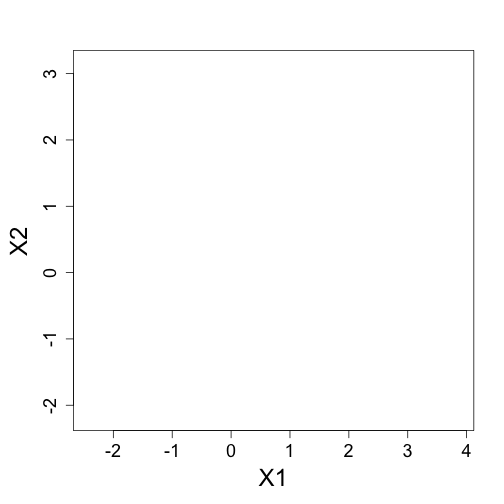
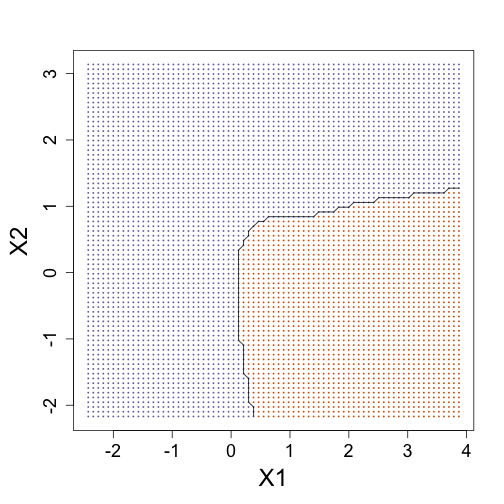
prediction fix and adding geoquery

Changed region(s): [[0.1786, 0.119, 0.9226, 0.8333]]

diff --git a/pages/GEOquery.md b/pages/GEOquery.md
@@ -1,0 +1,123 @@
+---
+layout: page
+title: Downloading data from GEO using GEOquery
+---
+
+
+
+
+## Example of how to download CEL files from GEO
+
+## contributed by Stephanie Hicks
+
+If the `GEOquery` R/Biocondcutor package is not installed, use `biocLite()` to install the package:  
+
+```r
+source("http://bioconductor.org/biocLite.R")
+biocLite("GEOquery")
+```
+
+
+Load the `GEOquery` R/Bioconductor package: 
+
+```r
+library(GEOquery)
+```
+
+
+
+### Access the GEO Series Data
+To access the GEO Sample (GSM), GEO Series (GSE) (lists of GSM files that together form a single experiment) or GEO Dataset (GDS), use the function `getGEO()` which returns a list of ExpressionSets: 
+
+```r
+### This will download a 20 Mb
+gse <- getGEO("GSE21653", GSEMatrix = TRUE)
+show(gse)
+```
+
+
+
+### Accessing raw data from GEO
+If raw data such as .CEL files exist on GEO, you can easily access this dea using the `getGEOSuppFiles()` function.  The function takes in a GEO accession as the argument and will download all the raw data associated with that accession. By default the `getGEOSuppFiles()` function will create a directory within the current working directory to store the raw data.  Here, the file paths of the downloaded files (often with as a .tar extension) are stored in a data frame called `filePaths`. 
+
+
+```r
+filePaths = getGEOSuppFiles("GSE21653")
+filePaths
+```
+
+From here you can use, for example, `ReadAffy()` to read in the CEL files.  
+
+
+### Access GSE Data Tables from GEO
+To access the phenotypic information about the samples, the best way is to use `getGEO()` function to obtain the GSE object and then extract the phenoData object from that.  Unfortunately this means downloadint the entire GSE Matrix file.  
+
+
+```r
+dim(pData(gse[[1]]))
+head(pData(gse[[1]])[, 1:3])
+```
+
+
+Sometimes GSEs are include separate data tables with the sample information. If these exist, you can uuse the `getGSEDataTables()` function. For example here is the phenoData object from a different GSE accession GSE3494 with a Data Table. 
+
+```r
+df1 <- getGSEDataTables("GSE3494")
+lapply(df1, head)
+```
+
+```
+## [[1]]
+##   INDEX (ID) p53 seq mut status (p53+=mutant; p53-=wt)
+## 1    X101B88                                      p53+
+## 2    X102B06                                      p53+
+## 3    X104B91                                      p53+
+## 4    X110B34                                      p53+
+## 5    X111B51                                      p53+
+## 6    X127B00                                      p53+
+##   p53 DLDA classifier result (0=wt-like, 1=mt-like)
+## 1                                                 1
+## 2                                                 1
+## 3                                                 0
+## 4                                                 1
+## 5                                                 1
+## 6                                                 1
+##   DLDA error (1=yes, 0=no) Elston histologic grade ER status PgR status
+## 1                        0                      G3       ER-       PgR-
+## 2                        0                      G3       ER+       PgR+
+## 3                        1                      G3       ER+       PgR+
+## 4                        0                      G2       ER+       PgR+
+## 5                        0                      G3       ER+       PgR+
+## 6                        0                      G3       ER+       PgR+
+##   age at diagnosis tumor size (mm) Lymph node status
+## 1               40              12               LN-
+## 2               51              26               LN-
+## 3               80              24               LN?
+## 4               74              20               LN-
+## 5               41              33               LN-
+## 6               57              22               LN-
+##   DSS TIME (Disease-Specific Survival Time in years)
+## 1                                             11.833
+## 2                                             11.833
+## 3                                              3.583
+## 4                                             11.667
+## 5                                              7.167
+## 6                                              4.667
+##   DSS EVENT (Disease-Specific Survival EVENT; 1=death from breast cancer, 0=alive or censored )
+## 1                                                                                             0
+## 2                                                                                             0
+## 3                                                                                             0
+## 4                                                                                             0
+## 5                                                                                             1
+## 6                                                                                             1
+## 
+## [[2]]
+##   GEO Sample Accession # Patient ID Affy platform
+## 1               GSM79114    X100B08      HG-U133A
+## 2               GSM79115    X101B88      HG-U133A
+## 3               GSM79116    X102B06      HG-U133A
+## 4               GSM79117    X103B41      HG-U133A
+## 5               GSM79118    X104B91      HG-U133A
+## 6               GSM79119    X105B13      HG-U133A
+```
+

diff --git a/pages/prediction.md b/pages/prediction.md
@@ -112,29 +112,22 @@ p <- function(x) {
     p1/(p0 + p1)
 }
 
+### Create the bayesrule prediction
+bayesrule <- apply(newx, 1, p)
+colshat <- bayesrule
+colshat[bayesrule >= 0.5] <- mycols[2]
+colshat[bayesrule < 0.5] <- mycols[1]
+
+
 ## Draw contours of E(Y|X) < 0.5
 mypar(1, 1)
 plot(x, type = "n", xlab = "X1", ylab = "X2", xlim = XLIM, ylim = YLIM)
-```
-
-![plot of chunk unnamed-chunk-2](figure/prediction-unnamed-chunk-2.png) 
-
-```r
 points(newx, col = colshat, pch = 16, cex = 0.35)
-```
-
-```
-## Error: object 'colshat' not found
-```
-
-```r
 contour(tmpx, tmpy, matrix(round(bayesrule), GS, GS), levels = c(1, 2), add = TRUE, 
     drawlabels = FALSE)
 ```
 
-```
-## Error: object 'bayesrule' not found
-```
+![plot of chunk unnamed-chunk-2](figure/prediction-unnamed-chunk-2.png) 
 
 
 Now make a plot of training data and test data

diff --git a/index.md b/index.md
@@ -19,6 +19,7 @@ The repository of the R markdown files (.Rmd) for the PH525x labs shown here is:
 
 - [Installing packages from Github](pages/github.html)
 - [Reading microarray data](pages/reading_microarray_data.html)
+- [Downloading data from GEO using GEOquery](pages/GEOquery.html)
 - [EDA plots for microarray](pages/EDA_plots_for_microarray.html)
 - [Basic Bioconductor infrastructure](pages/basic_Bioconductor_infrastructure.html)
 - [EDA plots for next generation sequencing](pages/EDA_plots_for_NGS.html)
